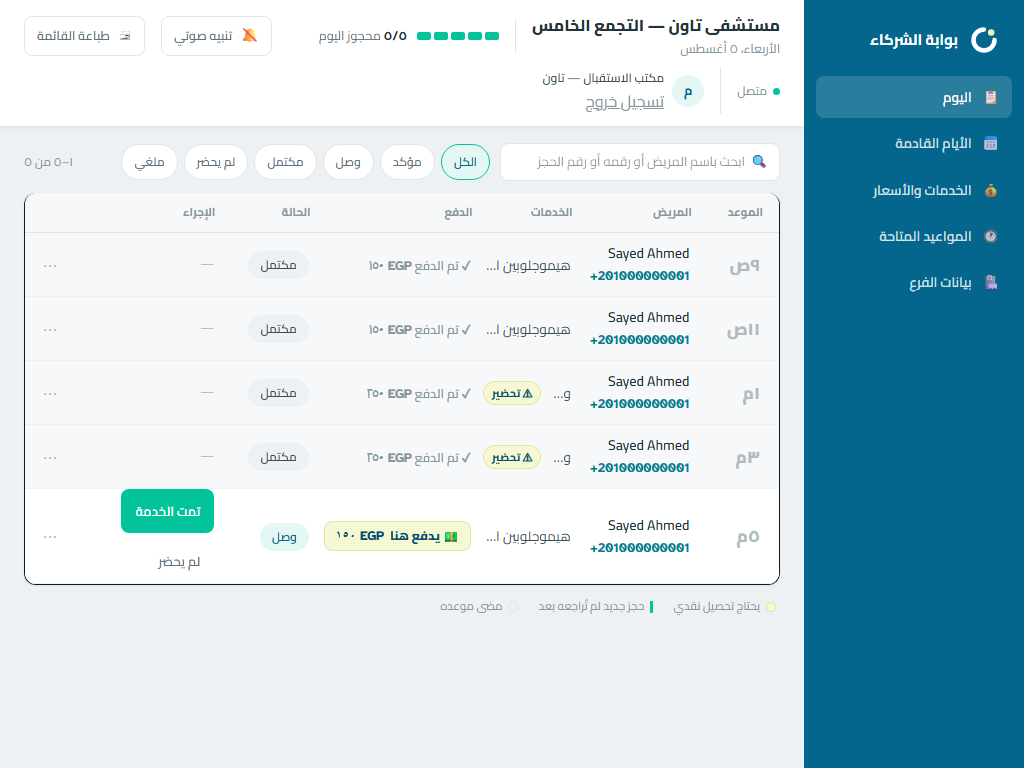
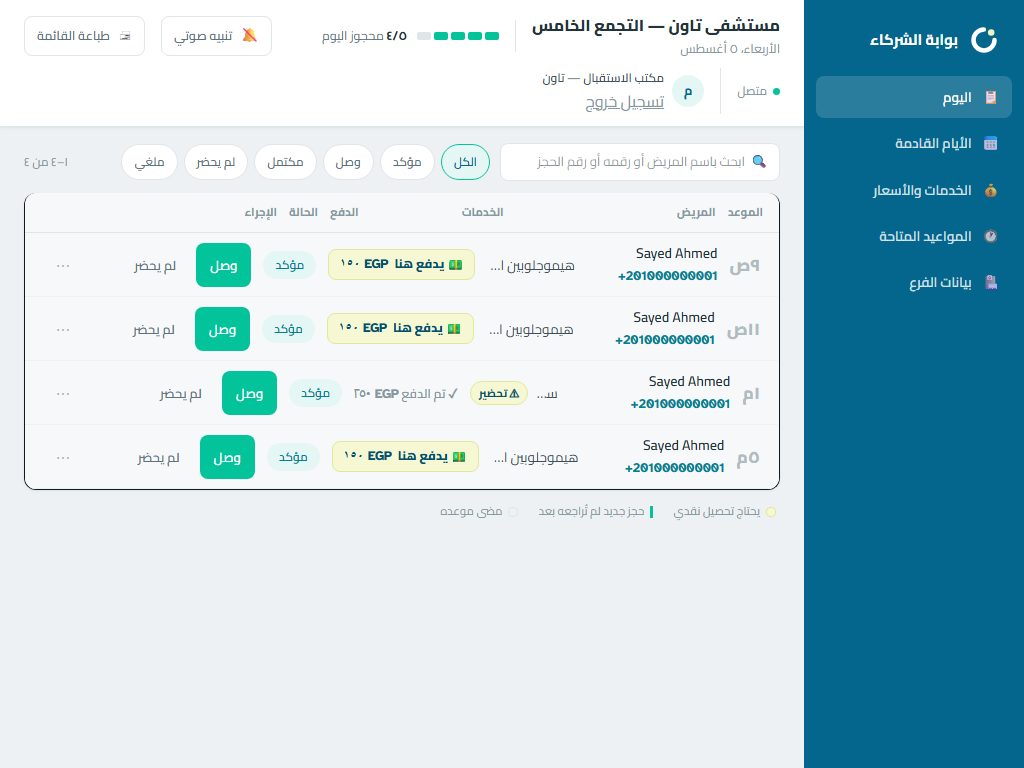
Size the nowrap columns by content, not by a width measured on one machine
CI caught what local runs could not: the cash chip renders 154px on Linux where it is 147px on Windows, so the flat 150px payment column clipped the amount by 4px on the runner and nowhere locally. Font metrics are platform-specific; a hardcoded track width is the budget-tuned-to-one-machine disease wearing a layout hat. Time, payment and status all hold whitespace-nowrap content and are now uto tracks, which fall back to min-content under pressure - for nowrap content that IS the full width, so the chip cannot be clipped on any platform. Reproduced the CI conditions first (seeded the 004 fixtures, ran against a production build) before changing anything, and cleaned up the two synthetic bookings the CASH-01 verification had left holding today's slots, which was starving the fixture seed of a fourth slot.

diff --git a/apps/web/components/dashboard/BookingRow.tsx b/apps/web/components/dashboard/BookingRow.tsx
@@ -66,12 +66,21 @@ function PendingDots({ labelAr }: { labelAr: string }): React.ReactElement {
 // at a screenshot, not by the DOM checks — overlap is invisible to
 // scrollWidth (ENGINEERING-WORKFLOW §9: read the capture).
 //
-// ⚠ THE PAYMENT COLUMN NEVER COMPRESSES — it is a flat 150px. Its cash chip
-// («💵 يدفع هنا ٢٥٠ EGP») is `whitespace-nowrap` and measures ~147px, so any
-// floor below that CLIPS the amount the desk has to physically collect.
-// Measured at 1024px with a compressing payment column: 147px of content in a
-// 123px cell. Money the desk must collect is the one thing on this row that
-// may never be shortened, so it takes its width first and the flexible columns
+// ⚠ THE NOWRAP COLUMNS ARE `auto`, NOT A PIXEL NUMBER — time, payment and
+// status all hold `whitespace-nowrap` content (the cash chip «💵 يدفع هنا ٢٥٠
+// EGP», the status pill, the time), so their tracks must be sized by that
+// CONTENT. An `auto` track falls back to min-content under pressure, which for
+// nowrap content is its full width: the chip can never be clipped, on any
+// platform.
+//
+// It was briefly a flat 150px, measured off this machine — and CI caught it:
+// the same chip renders **154px on Linux** where it is 147px on Windows, so
+// the payment amount clipped by 4px on the runner and nowhere locally. Font
+// metrics differ per platform; a hardcoded width is the "budget tuned to one
+// machine" disease (§9) wearing a layout hat. Let the content decide.
+//
+// Money the desk must collect is the one thing on this row that may never be
+// shortened, so these columns take their width first and the flexible ones
 // absorb the difference.
 // ⚠ THE FLOORS ARE NOT THE WHOLE STORY — a grid item's default `min-width:
 // auto` lets its CONTENT push a track past its `minmax()` floor. The action
@@ -85,9 +94,9 @@ function PendingDots({ labelAr }: { labelAr: string }): React.ReactElement {
 // below that the scroller in BookingsPanel keeps everything REACHABLE. At
 // 911px (the 1366 floor at 150% zoom) the row scrolls by ~5px; nothing hides.
 export const BOOKINGS_GRID_WITH_ACTIONS =
-  'grid grid-cols-[minmax(52px,90px)_minmax(100px,200px)_minmax(88px,1fr)_150px_minmax(76px,118px)_minmax(124px,180px)_minmax(24px,44px)] items-center gap-3'
+  'grid grid-cols-[auto_minmax(100px,200px)_minmax(88px,1fr)_auto_auto_minmax(124px,180px)_minmax(24px,44px)] items-center gap-3'
 export const BOOKINGS_GRID_READ_ONLY =
-  'grid grid-cols-[minmax(52px,90px)_minmax(100px,200px)_minmax(88px,1fr)_150px_minmax(76px,118px)_minmax(24px,44px)] items-center gap-3'
+  'grid grid-cols-[auto_minmax(100px,200px)_minmax(88px,1fr)_auto_auto_minmax(24px,44px)] items-center gap-3'
 
 export function BookingRow({
   booking,
